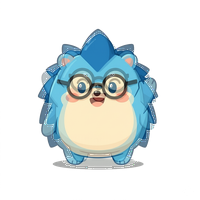
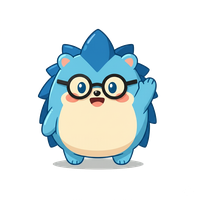
v7: nits + clean wave

Changed region(s): [[0.18, 0.12, 0.81, 0.84], [0.54, 0.84, 0.57, 0.87], [0.42, 0.84, 0.45, 0.87]]

diff --git a/index.html b/index.html
@@ -54,7 +54,7 @@
         <span class="pulse"></span> Quiet pings every 5–15 min
       </div>
       <h1 class="hero-title">
-        Stay on the things you <em>said</em> mattered.
+        Stay on the things<br>you <em>said</em> mattered.
       </h1>
       <p class="hero-sub">
         Naggy drops by every few minutes to gently point you back. One click. Under two seconds. He's on your side.
@@ -74,7 +74,7 @@
     <div class="container">
       <div class="tight">
         <span class="section-kicker">Your team</span>
-        <h2 class="section-title">Two characters. One small, honest app.</h2>
+        <h2 class="section-title">Two characters.<br>One small, honest app.</h2>
         <p class="section-lede">Naggler isn't automating you, replacing you, or writing your emails. It's a two-person show: you set what mattered today, Naggy keeps pointing you back at it when you drift. The tracking happens quietly in the background.</p>
       </div>
 
@@ -271,7 +271,7 @@
   <section class="closing">
     <div class="container">
       <blockquote>
-        More Naggy.<br><em>Less problems.</em>
+        Mo' Naggy.<br><em>Less problems.</em>
       </blockquote>
       <cite>With apologies to Biggie</cite>
     </div>

diff --git a/styles.css b/styles.css
@@ -534,6 +534,11 @@ section {
   display: flex;
   gap: 1rem;
   align-items: flex-start;
+  /* Uniform step width — text varies, container doesn't. Keeps the
+     three steps as a tidy row (desktop) / tidy stack (mobile). */
+  width: 100%;
+  max-width: 22rem;
+  margin-inline: auto;
 }
 
 .step-number {
@@ -577,15 +582,15 @@ section {
 }
 
 /* Step 2 — Naggy peeks around the LEFT corner of the box. Box stays
-   perpendicular (no rotation). Naggy sits same size as the other two
-   icons (72px), positioned so his right half is visible on the box and
-   his left half peeks around the left edge. */
+   perpendicular (no rotation). Same 72px as other icons. Naggy's center
+   vertical line aligns with the box's left edge — so exactly half of
+   him is on the box and half is outside, peeking around. */
 .step-icon-peek {
   overflow: visible;
 }
 .step-icon-peek .peek-img {
   position: absolute;
-  left: -40%;
+  left: -36px;     /* half of his 72px width */
   top: 12px;
   width: 72px;
   filter: drop-shadow(0 6px 10px rgba(30, 41, 59, 0.15));
